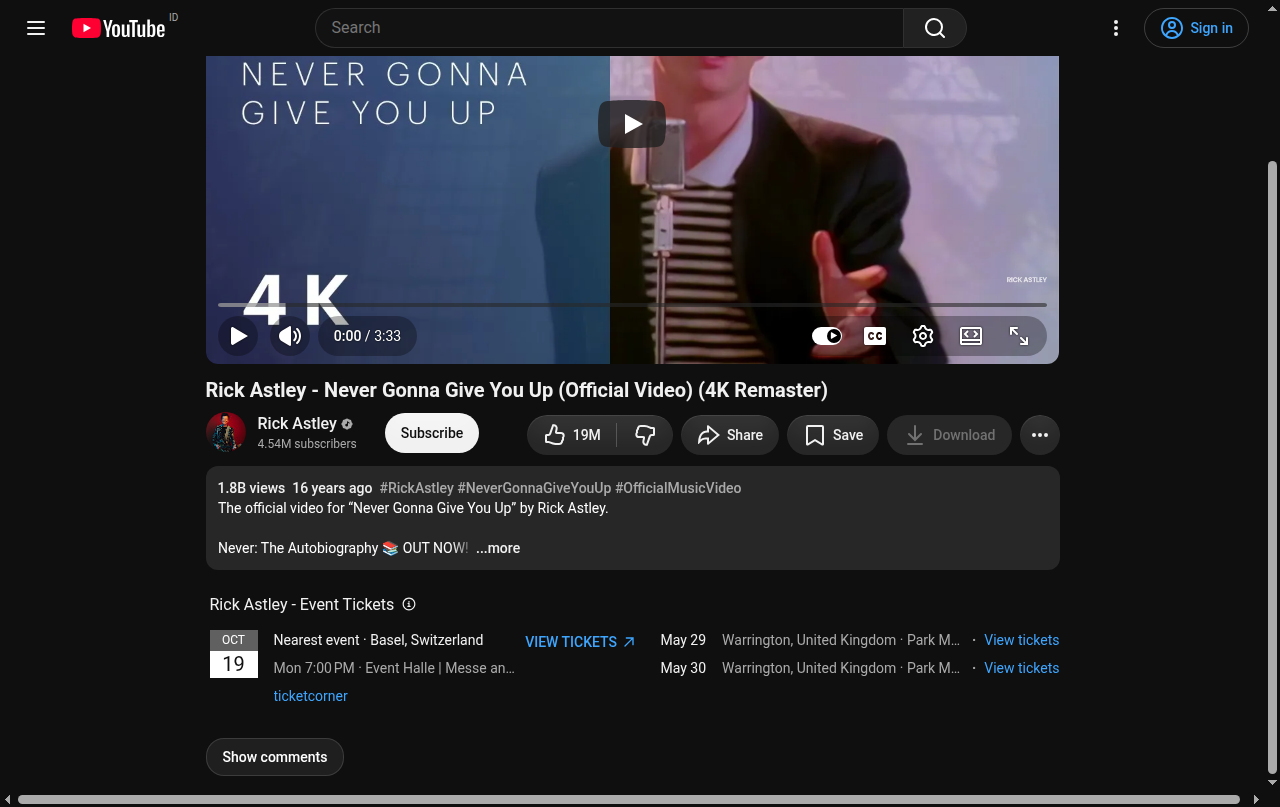
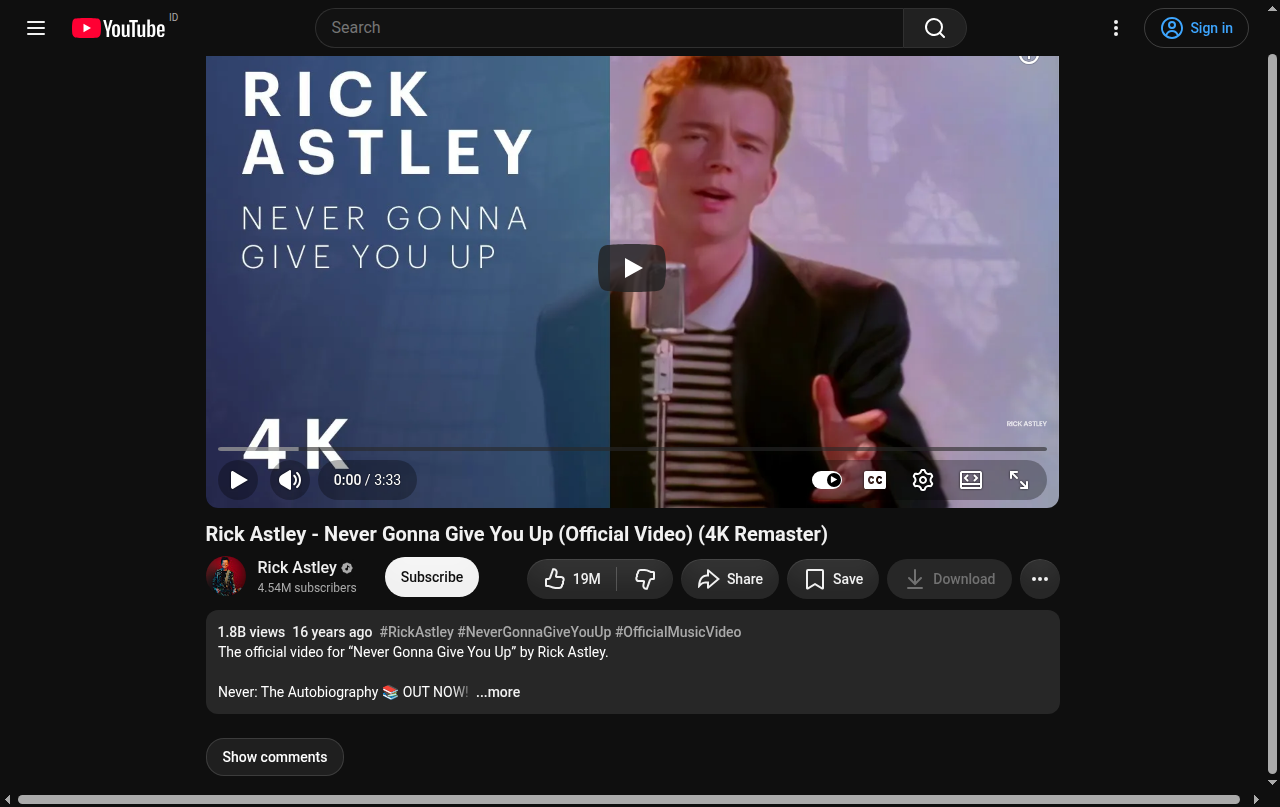
feat: hide event tickets, merchandise, and shopping shelves

diff --git a/hide.css b/hide.css
@@ -26,6 +26,14 @@ html.ytlite-comments-hide ytd-engagement-panel-section-list-renderer[data-target
   display: none !important;
 }
 
+/* Event tickets, merchandise, and shopping shelves */
+ytd-ticket-shelf-renderer,
+ytd-merch-shelf-renderer,
+ytd-product-shelf-renderer,
+#ticket-shelf {
+  display: none !important;
+}
+
 /* Center watch page layout horizontally */
 ytd-watch-flexy:not([fullscreen]) #columns,
 ytd-watch-grid:not([fullscreen]) #columns {
